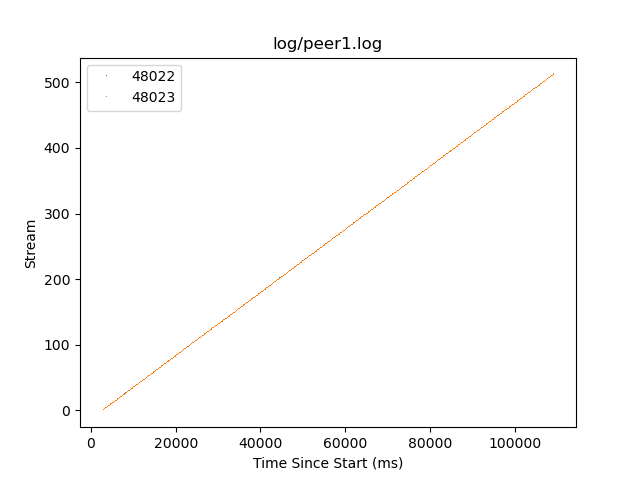
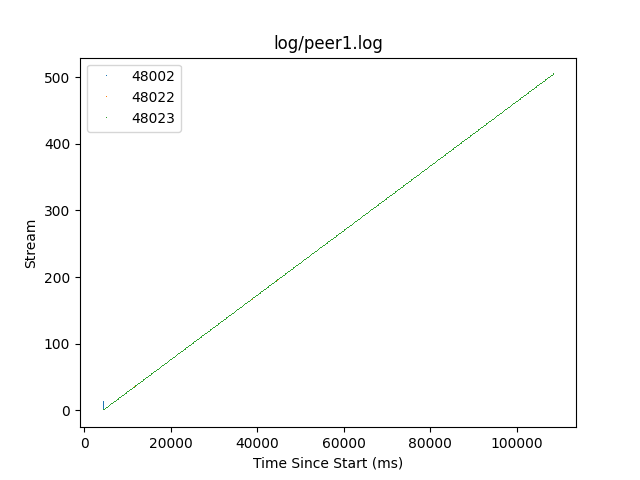
fix: 能跑的版本。修复了timeout等问题

diff --git a/src/peer.py b/src/peer.py
@@ -38,7 +38,8 @@ cwnd_plot_list = []
 time_plot_list = []
 counter = 0
 
-contiguous_send_cnt = 10
+# contiguous_send_cnt = 10
+contiguous_send_cnt = 1
 
 
 def check_timeout(sock: SimSocket) -> None:
@@ -53,12 +54,16 @@ def check_timeout(sock: SimSocket) -> None:
         congestion_controller = conn.congestion_controller
         for seq in timeout_packets:
             pkt = sending_wnd.fetch_data(seq)
+            LOGGER.debug(f"发现超时，{time.time():2f}-{pkt.send_time:2f}超过阈值{sending_wnd.timeout.timeout_interval}。"+
+                         f"当前窗口大小为{sending_wnd.window_size}。")
             # 更新包时间
             pkt.send_time = time.time()
             # 重传.
             sock.sendto(pkt.peer_packet.make_binary(), conn.receiving_peer)
             # 更新congestion window
             congestion_controller.notify_timeout()
+            sending_wnd.window_size = congestion_controller.cwnd()
+
 
 
 def process_inbound_udp(sock: SimSocket):
@@ -80,9 +85,9 @@ def process_inbound_udp(sock: SimSocket):
         this_peer_state.cur_connection = this_peer_state.addConnection(from_addr, config=config)
     # LOGGER.debug(f"恢复与{from_addr}的连接{this_peer_state.cur_connection}")
 
-    print(
-        f"prepared to response to {this_peer_state.cur_connection.connect_peer} with [team:{peer_packet.team_num}, "
-        f"type:{peer_packet.type_code}, Seq:{peer_packet.seq_num}, Ack:{peer_packet.ack_num}]")
+    # print(
+    #     f"prepared to response to {this_peer_state.cur_connection.connect_peer} with [team:{peer_packet.team_num}, "
+    #     f"type:{peer_packet.type_code}, Seq:{peer_packet.seq_num}, Ack:{peer_packet.ack_num}]")
 
     packet_type = PeerPacketType(peer_packet.type_code)
 
@@ -178,12 +183,14 @@ def process_inbound_udp(sock: SimSocket):
         # time_plot_cnt = this_peer_state.cur_connection.time_plot_cnt
 
         ack_num = peer_packet.ack_num
+        LOGGER.debug(f"接收到 ACK 报文。")
 
         # 判断是否是dupACK
         if sending_wnd.try_acknowledge(ack_num):
             # 不是dupACK
             congestion_controller.notify_new_ack()
             sending_wnd.window_size = congestion_controller.cwnd()
+            LOGGER.debug(f"是新的 ACK 报文。当前窗口大小为{sending_wnd.window_size}。")
 
             cwnd_plot.append(congestion_controller.cwnd())
             time_plot.append(time.time())
@@ -195,30 +202,37 @@ def process_inbound_udp(sock: SimSocket):
                 this_peer_state.removeConnection(from_addr)
             else:
                 for i in range(contiguous_send_cnt):
-                    left = ack_num * MAX_PAYLOAD
+                    last_ack_num = ack_num+i
+                    LOGGER.debug(f"正在连续发送，现在发的是{last_ack_num+1}")
+                    left = last_ack_num * MAX_PAYLOAD
                     if left > CHUNK_DATA_SIZE: break
-                    right = min((ack_num + 1) * MAX_PAYLOAD, CHUNK_DATA_SIZE)
+                    right = min((last_ack_num + 1) * MAX_PAYLOAD, CHUNK_DATA_SIZE)
                     next_data = config.haschunks[ex_sending_chunkhash][left: right]
 
-                    send_packet = PeerPacket(type_code=PeerPacketType.DATA.value, seq_num=ack_num + 1
+                    send_packet = PeerPacket(type_code=PeerPacketType.DATA.value, seq_num=last_ack_num + 1
                                              , data=next_data)
                     if sending_wnd.put_packet(send_packet):
+                        
                         # 没有超过窗口大小
                         sock.sendto(send_packet.make_binary(), from_addr)
-                    ack_num += 1  # 这个只是临时的，不是真正的ack_num。
+                    else:
+                        LOGGER.debug(f"由于窗口大小{sending_wnd.window_size}限制，停止连续发送，{last_ack_num+1}没有发送。")
+                        break
 
         else:
             # 是dupACK，应该更新congestion controller的状态
             # 根据当前的controller状态，判断dupACK counter是否满足重传条件
             congestion_controller.notify_duplicate()
             sending_wnd.window_size = congestion_controller.cwnd()
+            LOGGER.debug(f"是重复的 ACK 报文。更新后当前窗口大小为{sending_wnd.window_size}。")
 
             cwnd_plot.append(congestion_controller.cwnd())
             time_plot.append(time.time())
 
             if congestion_controller.duplicate_ack_count >= 3:
                 # 满足重传条件
-                fast_retransmit_packet: TimedPacket = sending_wnd.fetch_data(ack_num)
+                # if 
+                fast_retransmit_packet: TimedPacket = sending_wnd.fetch_data(ack_num+1)
                 fast_retransmit_packet.send_time = time.time()  # 重传之后重新计时。
                 sock.sendto(fast_retransmit_packet.peer_packet.make_binary(), from_addr)
             else:
@@ -390,7 +404,7 @@ def peer_run(config):
         while True:
 
             # 超时检查
-            # check_timeout(sock)
+            check_timeout(sock)
 
             # crash check
             for con in this_peer_state.connections:
@@ -421,7 +435,7 @@ def peer_run(config):
             plt.plot(t, c, color='green', marker='o', linestyle='dashed', linewidth=1, markersize=3)
             plt.title(f"{config.ip}:{config.port}")
             plt.savefig(f"img/{config.ip}-{config.port}.png")
-            plt.show()
+            # plt.show()
         sock.close()
 
 

diff --git a/src/sending_window.py b/src/sending_window.py
@@ -11,7 +11,7 @@ class TimeoutEstimator:
     def __str__(self) -> str:
         return self.__dict__.__str__()
 
-    def __init__(self, alpha: float = 1.0 / 8, beta: float = 1.0 / 8, sigma: float = 4, init_rtt: float = 1,
+    def __init__(self, alpha: float = 1.0 / 8, beta: float = 1.0 / 8, sigma: float = 4, init_rtt: float = 2,
                  update_interval: int = 1, fixed_timeout=False):
         """超时估计器。参考TCP的计算公式。
         Args:
@@ -34,11 +34,19 @@ class TimeoutEstimator:
         self.updates = 0
         self.update_interval = update_interval
 
-    def check_whether_timeout(self, time_waited: float):
+    def check_whether_timeout(self, time_waited: float)->bool:
+        """_summary_
+
+        Args:
+            time_waited (float): _description_
+
+        Returns:
+            bool: 如果超时，返回True，否则返回False。
+        """
         # if self.updates / self.update_interval == 0: return False # 如果采样次数不够，就不超时
-        result = time_waited > self.timeout_interval
-        if result:
-            self.timeout_interval *= 2  # 超时后，timeout_interval翻倍，以免过早出现超时。
+        result = (time_waited > self.timeout_interval)
+        # if result:
+        #     self.timeout_interval *= 2  # 超时后，timeout_interval翻倍，以免过早出现超时。
         return result
 
     def update(self, sample_rtt: float):
@@ -113,7 +121,7 @@ class TcpSendingWindow:
         if len(self.sent_pkt_list) < self.window_size:
             if len(self.sent_pkt_list) + 1 == self.window_size:
                 pass  # 包装 TCP_Window_Full 字段到 peer_packet
-            self.sent_pkt_list.append(TimedPacket(peer_packet))
+            self.sent_pkt_list.append(TimedPacket(peer_packet, send_time=time.time()))
             return True
         return False
 

diff --git a/src/congestion_controller.py b/src/congestion_controller.py
@@ -30,7 +30,7 @@ class CongestionController:
 
     def notify_timeout(self):
         def restart():
-            self.slow_thresh = self.congestion_window / 2
+            self.slow_thresh = max(self.congestion_window / 2, 2)
             self.congestion_window = 1
             self.duplicate_ack_count = 0
 
@@ -52,7 +52,7 @@ class CongestionController:
                 self.duplicate_ack_count += 1
             else:
                 # 若counter>=3，进入快速回复
-                self.slow_thresh = self.congestion_window / 2
+                self.slow_thresh = max(self.congestion_window / 2, 2)
                 self.congestion_window = self.slow_thresh + 3
                 self.state = CongestionState.FAST_RECOVERY
 

diff --git a/src/peer_state.py b/src/peer_state.py
@@ -72,7 +72,7 @@ class TcpLikeConnection:
 
         self.congestion_controller = CongestionController()
 
-        timeout_estimator = TimeoutEstimator() if config.timeout is None else TimeoutEstimator(init_rtt=config.timeout,
+        timeout_estimator = TimeoutEstimator() if config.timeout == 0 else TimeoutEstimator(init_rtt=config.timeout,
                                                                                                fixed_timeout=True)
         self.sending_wnd = TcpSendingWindow(timeout_estimator=timeout_estimator)
 

diff --git a/README.md b/README.md
@@ -1,90 +1,117 @@
 # CS305
 
 ## Set up your repo
+
 First, clone the repo from github and change the git remote tag::
+
 ```
 git clone https://github.com/SUSTech-CS305-Fall22/CS305-Project-Skeleton.git
 cd CS305-Project-Skeleton
 git remote rename origin staff
 ```
+
 After doing so you can use the following command to get the latest update like newly-released checkpoints or so.
+
 ```
 git pull staff
 ```
+
 Then create a private repo your own on github, you will have the link <YOUR_URL> of your new repo.
 
 Return to the local repo, run
+
 ```
 git remote add group <YOUR_URL>
 git push group -u
 ```
+
 After this, you will be synchronize changes of your code to your own repo by
+
 ```
 git push group
 ```
+
 or simply
+
 ```
 git push
 ```
 
 In short, run 
+
 ```
 git push
 git pull group
 ```
+
 when synchronizing to your repo,
 
 Run
+
 ```
 git pull staff
 ```
+
 when fetching updates from the staff repo.
 
-
 ## How to run the example
+
 This will be short version of the example described in the document.
 
 In our example, a file will be divided into 4 chunks, and peer1 will have chunk1 and chunk2,
 while peer2 will have chunk3 and chunk4. Peer1 will be invoked to download chunk3 from peer2.
 
 ### Step 1: Generate chunk data for peer and peer2:
+
 First generate fragment that peer1 and peer2 have at the beginning
+
 ```
 python3 util/make_data.py example/ex_file.tar ./example/data1.fragment 4 1,2
 python3 util/make_data.py example/ex_file.tar ./example/data2.fragment 4 3,4
 ```
+
 Then generate chunkhash data for peer1 to be downloaded:
+
 ```
 sed -n "3p" master.chunkhash > example/download.chunkhash
 ```
 
 ### Step 2: Run the simulator:
+
 ```
 perl util/hupsim.pl -m example/ex_topo.map -n example/ex_nodes_map -p 52305 -v 2
 ```
 
 ### Step 3: Start Peers
+
 You need to start each peer in their own shells.
+
 ### Start the sender:
+
 ```
 export SIMULATOR="127.0.0.1: 52305"
 python3 example/dumbsender.py -p example/ex_nodes_map -c example/data2.fragment -m 1 -i 2 -v 3
 ```
 
 ### Start the receiver:
+
 ```
 export SIMULATOR="127.0.0.1: 52305"
 python3 example/dumbreceiver.py -p example/ex_nodes_map -c example/data1.fragment -m 1 -i 1 -v 3
 ```
 
 ### Step 4:  Start downloading
+
 Enter this message in the receiver's stdin
+
 ```
 DOWNLOAD example/download.chunkhash example/test.fragment
 ```
 
 ### Finish downloading
+
 After downloading successfully, you will see
+
 ```
 GOT example/test.fragment
 Expected chunkhash: 3b68110847941b84e8d05417a5b2609122a56314
